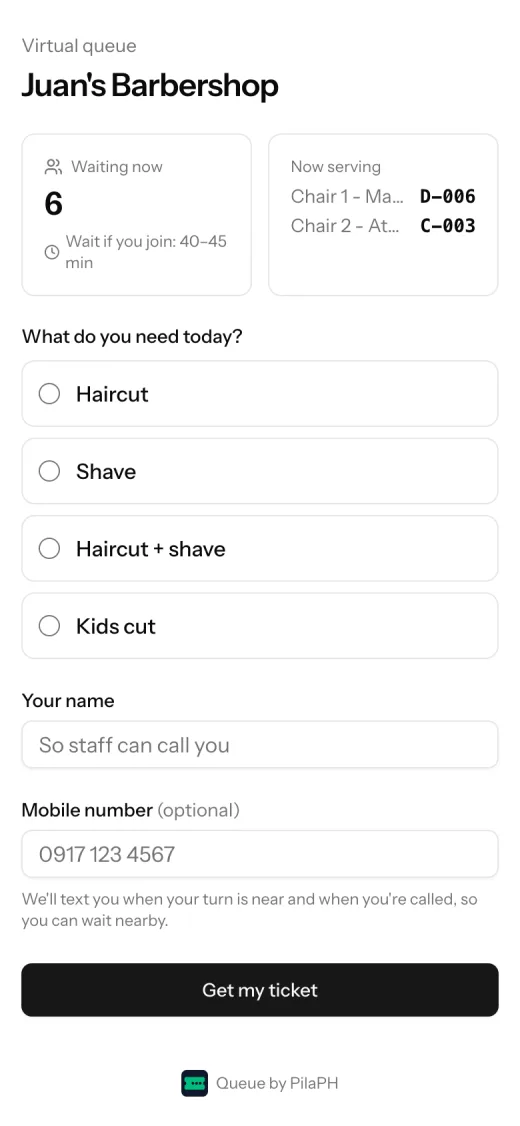
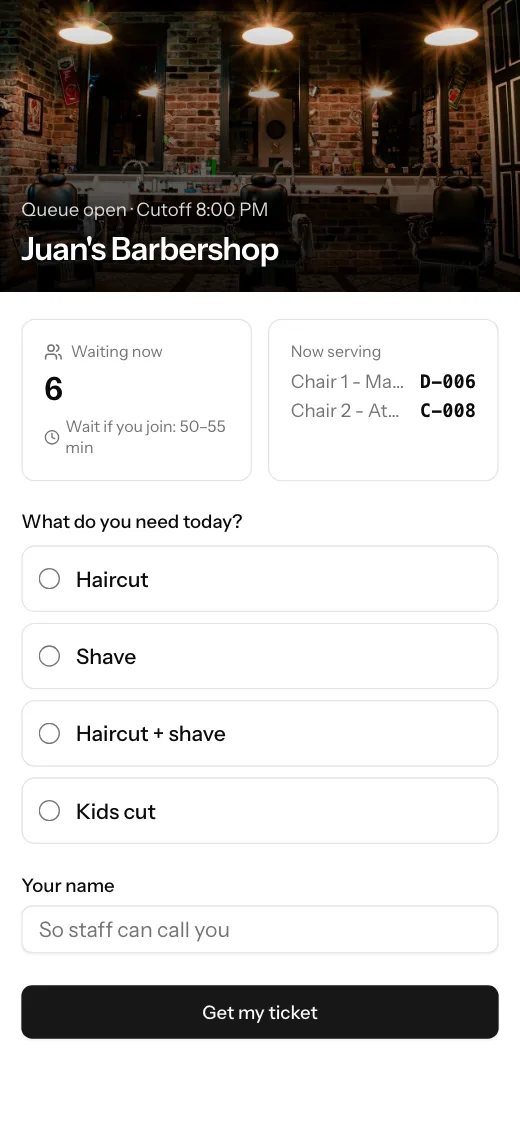
feat: landing page shows the join page's new photo header
Retook the "Scan and join" phone screenshot from the demo shop with a
shop photo, in light mode and without the phone field (as in
production). Photo: Nathon Oski on Unsplash (Unsplash License),
https://unsplash.com/photos/EW_rqoSdDes

diff --git a/resources/js/pages/welcome.tsx b/resources/js/pages/welcome.tsx
@@ -49,7 +49,7 @@ const features = [
 const customerSteps = [
     {
         image: '/images/landing/phone-join.webp',
-        alt: 'The join page: choose a service and enter your name',
+        alt: "The join page: the shop's photo, then choose a service and enter your name",
         title: 'Scan and join',
     },
     {
